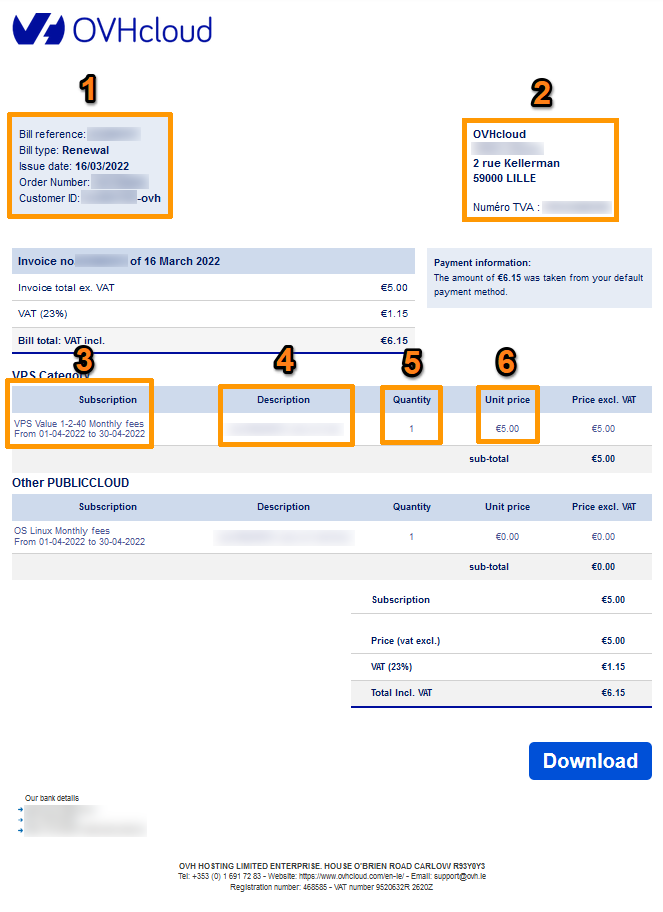
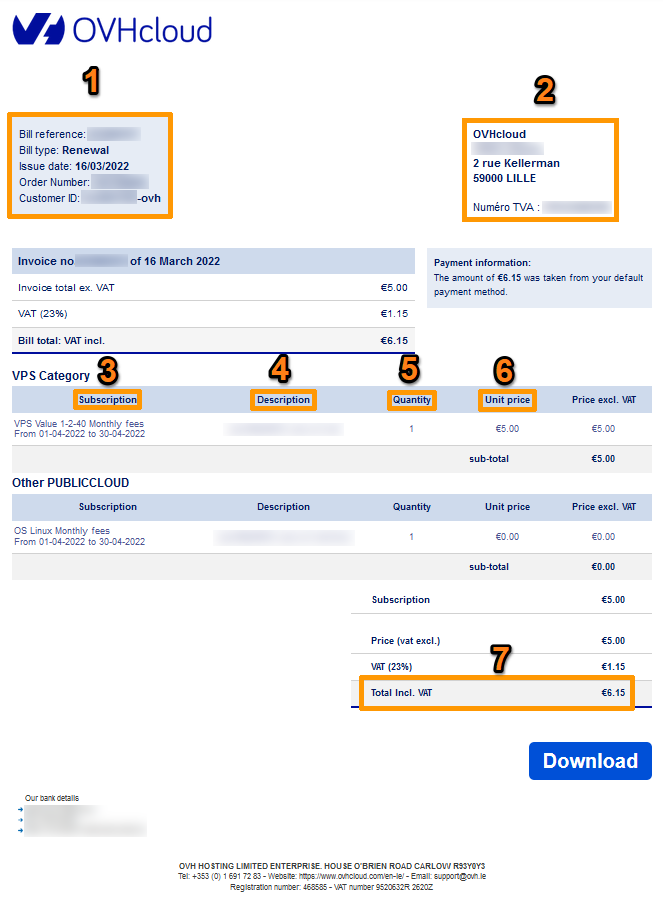
push updates

diff --git a/pages/account/billing/invoice_management/guide.fr-fr.md b/pages/account/billing/invoice_management/guide.fr-fr.md
@@ -22,8 +22,7 @@ OVHcloud met à votre disposition un espace vous permettant de consulter, gérer
 
 ## Prérequis
 
-- Être connecté à l'[espace client OVHcloud](https://www.ovh.com/auth/?action=gotomanager&from=https://www.ovh.com/fr/&ovhSubsidiary=fr).
-- Être connecté en tant que contact facturation de votre service (plus de détails sur les différents contacts dans le guide « [Gérer les contacts de ses services](https://docs.ovh.com/fr/customer/gestion-des-contacts/) »).
+- Être connecté à l'[espace client OVHcloud](https://www.ovh.com/auth/?action=gotomanager&from=https://www.ovh.com/fr/&ovhSubsidiary=fr) en tant que [contact facturation](https://docs.ovh.com/fr/customer/gestion-des-contacts/) de votre service.
 
 ## En pratique
 
@@ -34,7 +33,7 @@ OVHcloud met à votre disposition un espace vous permettant de consulter, gérer
 
 ### Comprendre votre facture
 
-La facture de votre service OVHcloud vous est envoyée suite au règlement d'une commande ou à un renouvellement. Elle récapitule les montants correspondant à chacun de vos produits commandés ou renouvelés, ainsi que leurs périodes de validité. La référence d'une facture, pour un compte français, commence toujours par les lettres **FR**.
+La facture de votre service OVHcloud vous est envoyée suite au règlement d'une commande ou à un renouvellement. Elle récapitule les montants correspondant à l'acaht ou au renouvellement de vos produits, ainsi que leurs périodes de validité. La référence d'une facture, pour un compte français, commence toujours par les lettres **FR**.
 
 ![Détail d'une facture](images/invoice_ovh.png){.thumbnail}
 
@@ -45,9 +44,8 @@ La facture de votre service OVHcloud vous est envoyée suite au règlement d'une
 |3|Abonnement : une description du service et de la période facturée|
 |4|Référence : la référence du service facturé|
 |5|Quantité : le nombre d'unités du service facturé|
-|6|Prix unitaire : le tarif des services|
-
-Les taxes sont ajoutées dans le montant **Total TTC**.
+|6|Prix unitaire (Hors Taxe) d'un produit|
+|7|Montant total (Toutes Taxes Comprises) de la facture|
 
 > [!primary]
 >
@@ -108,7 +106,7 @@ Si vous souhaitez n'en exporter qu'une partie, cochez les cases correspondantes 
 
 ![export_selection](images/export_selection.png){.thumbnail}
 
-#### Payer vos factures <a name="payer-ma-facture"></a>
+#### Payer vos factures
 
 Afin de procéder au règlement de vos factures en attente de paiement, il vous suffit de cliquer sur le menu `Actions de masse`{.action} puis sur le bouton `Régler mon solde immédiatement`{.action}.
 
@@ -147,7 +145,7 @@ Vous pouvez suivre tous les paiements effectués depuis la partie `Facturation` 
 
 ![Suivi des paiements](images/payment_tracking.png){.thumbnail}
 
-Depuis cet espace, vous pouvez également exporter vos justificatifs de paiement au format *.csv*. Comme pour la gestion des factures, vous pouvez filtrer les périodes à afficher.
+Depuis cet espace, vous pouvez également exporter vos justificatifs de paiement au format *.csv*, via le bouton `Exporter en CSV`{.action} (1). Plusieurs filtres sont également à votre disposition via le bouton `Filtrer`{.action} (2).
 
 > [!primary]
 >
@@ -155,6 +153,10 @@ Depuis cet espace, vous pouvez également exporter vos justificatifs de paiement
 >
 
 ## Aller plus loin
+
+[Gérer le renouvellement de mes services](https://docs.ovh.com/fr/billing/renouvellement-automatique-ovh/)
+
+[Gérer mes moyens de paiement](https://docs.ovh.com/fr/billing/manage-payment-methods/)
 
 Échangez avec notre communauté d'utilisateurs sur <https://community.ovh.com>.
 
